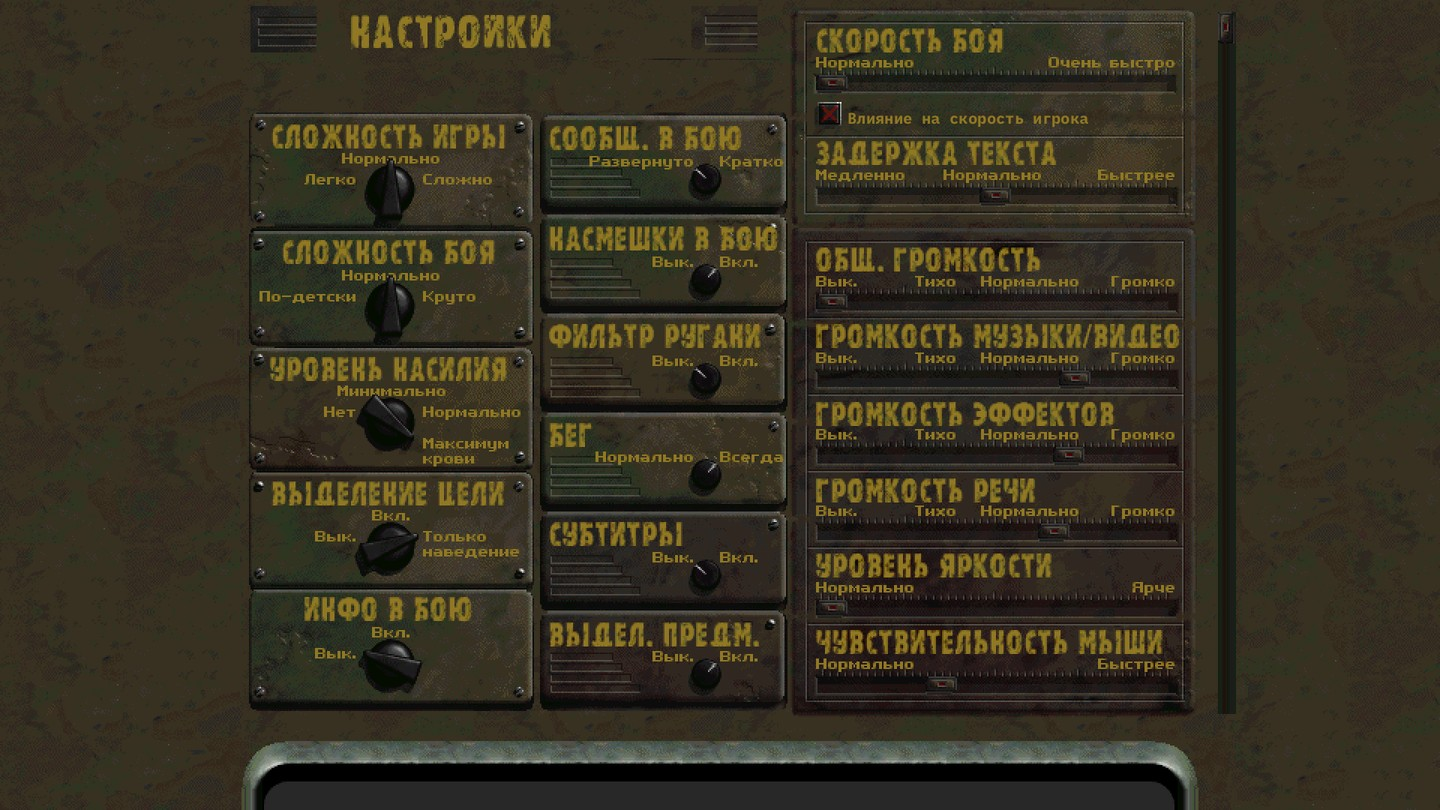
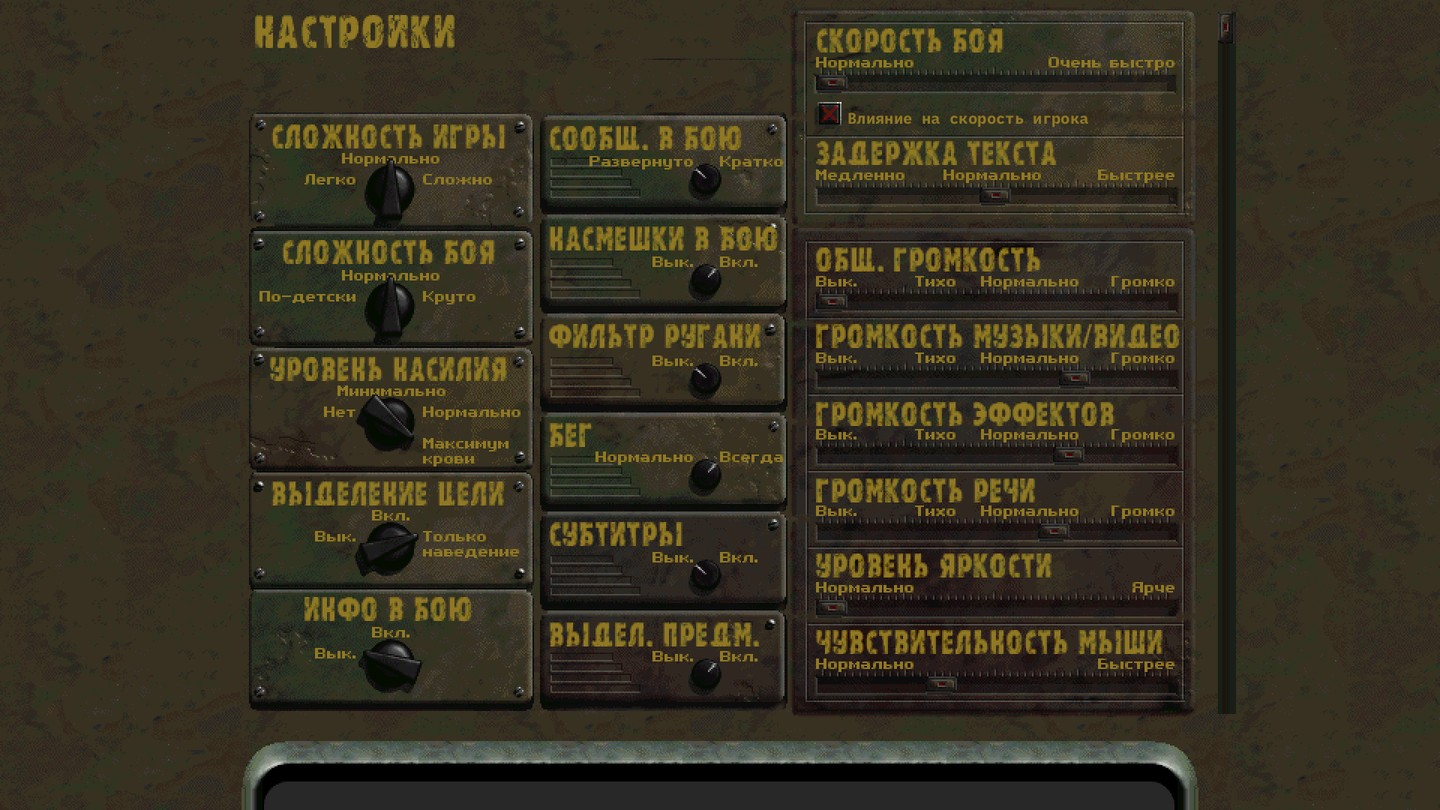
Remove settings heading vents

Changed region(s): [[0.1562, 0.0, 0.4062, 0.0617], [0.5, 0.0309, 0.5312, 0.0617]]

diff --git a/ce/src/preferences.cc b/ce/src/preferences.cc
@@ -1112,7 +1112,7 @@ static int preferencesWindowInit()
     fontSetCurrent(104);
 
     messageItemText = getmsg(&gPreferencesMessageList, &gPreferencesMessageListItem, 100);
-    fontDrawText(gPreferencesWindowBuffer + PREFERENCES_WINDOW_WIDTH * 10 + 74, messageItemText, PREFERENCES_WINDOW_WIDTH, PREFERENCES_WINDOW_WIDTH, COLOR_DARK_YELLOW);
+    fontDrawText(gPreferencesWindowBuffer + PREFERENCES_WINDOW_WIDTH * 10 + 10, messageItemText, PREFERENCES_WINDOW_WIDTH, PREFERENCES_WINDOW_WIDTH, COLOR_DARK_YELLOW);
 
     fontSetCurrent(103);
 

diff --git a/ce/src/scene/options_panel.cc b/ce/src/scene/options_panel.cc
@@ -222,7 +222,6 @@ bool OptionsPanel::initialize(int windowId, unsigned char* surface, const unsign
     }
     struct Rect { int x; int y; int width; int height; int feather = 0; };
     constexpr Rect legacyBlocks[] = {
-        { 7, 4, 44, 31 }, { 301, 4, 44, 31 },
         { 6, 40, 190, 74 }, { 6, 116, 190, 80 }, { 6, 197, 190, 82 },
         { 6, 279, 190, 81 }, { 6, 359, 190, 80 },
         { 200, 39, 165, 70 }, { 200, 109, 165, 66 }, { 200, 175, 165, 66 },

diff --git a/tasks/133-options-layout.md b/tasks/133-options-layout.md
@@ -84,3 +84,11 @@ all 13 controls at x=1419, both with sharp text on and off. Checked Russian
 entrance scene matched main e5063d0a, whose game and regression sources are
 unchanged at current origin/main 59ef4a2a. Earlier images remain in Git
 history and build/task133-before-ink-alignment.
+
+### 2026-11-01 gpt settings heading follow-up
+Done: Removed both decorative vents from the top of the settings page and
+aligned the title with the left settings column, following the owner's second
+reference. The earlier screenshot remains in Git history and build.
+Check: Release build and CTest 18/18; isolated Russian and English 16:9 and
+Russian 4:3 screenshots. The entrance scene matched the main baseline pixel
+for pixel; game and regression sources match current origin/main 59ef4a2a.
